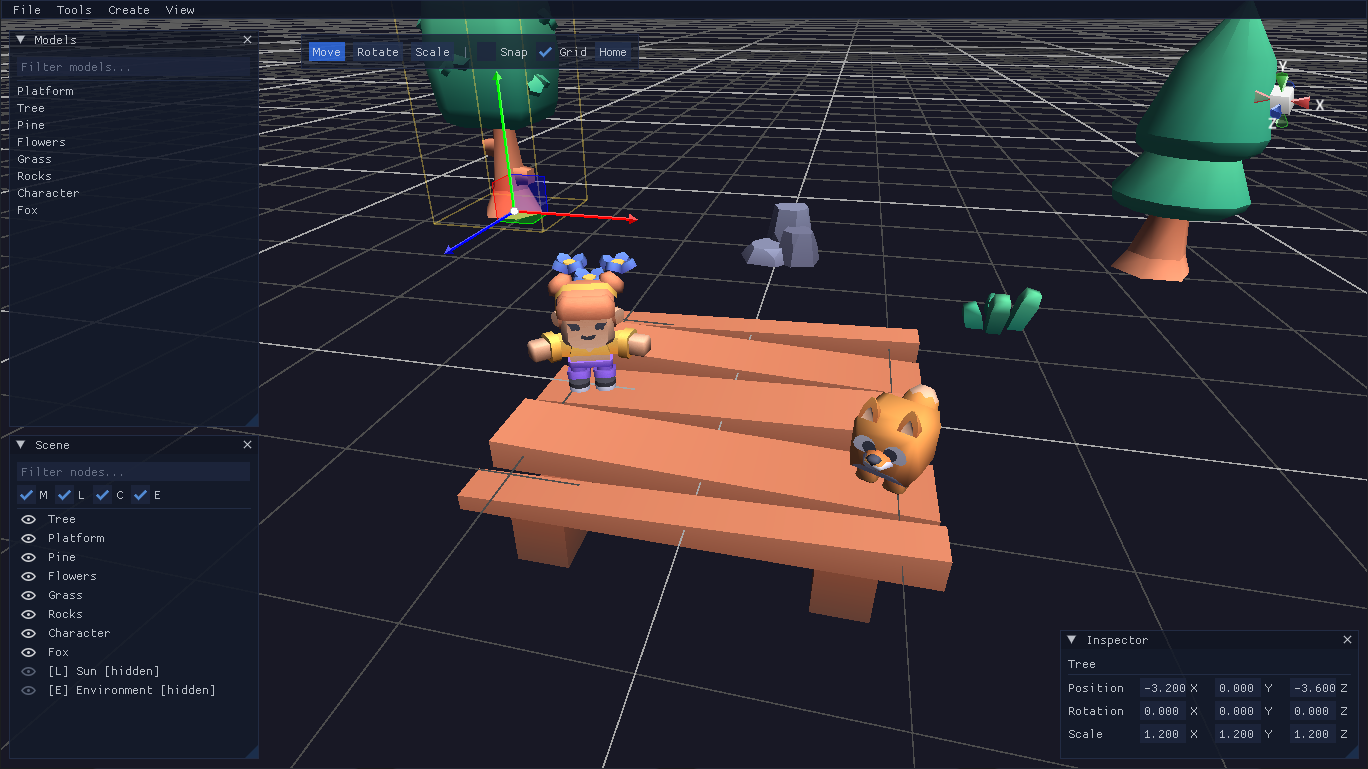
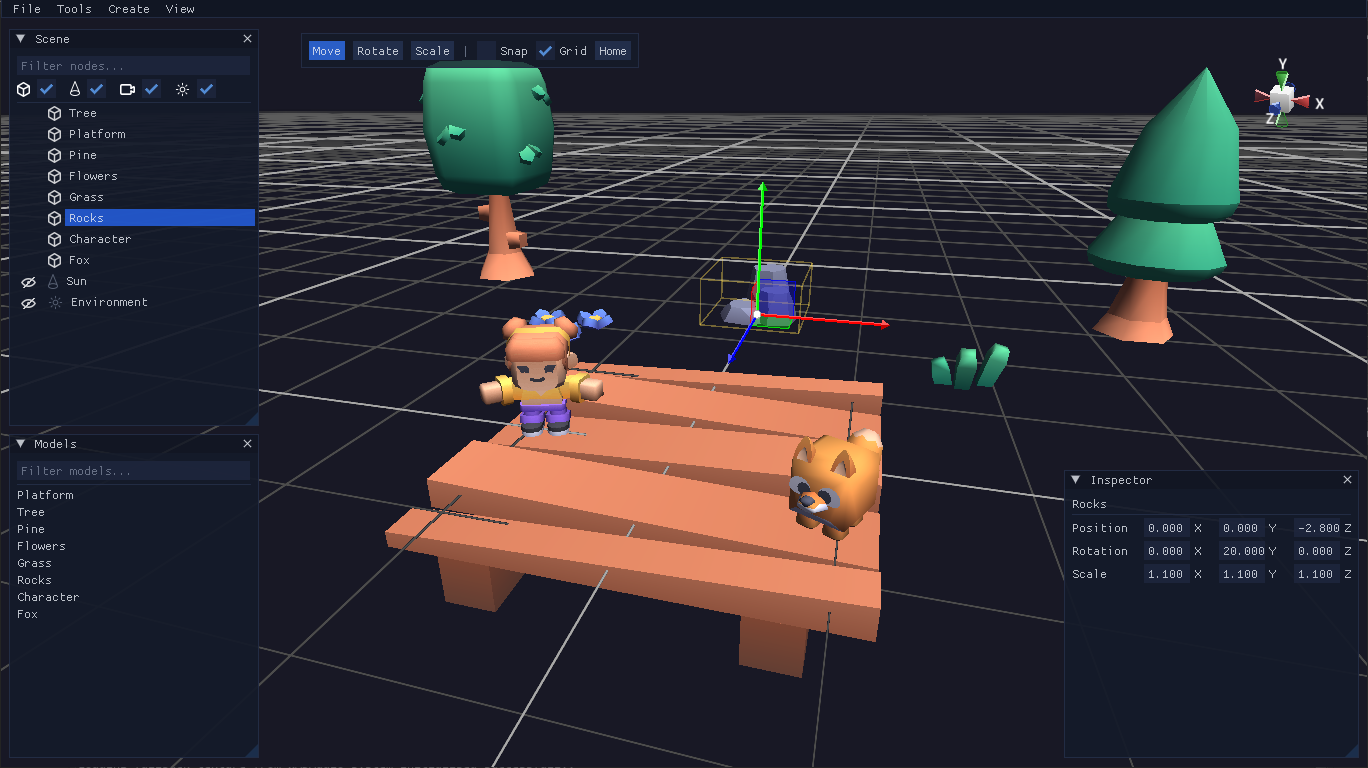
Update README to clarify editor usage and replace screenshot

diff --git a/README.md b/README.md
@@ -2,7 +2,7 @@
 
 <img src="docs/icon.png" width="300px" />
 
-Embeddable 3D level editor for GameMaker (GML) on the GM3D runtime, using the built-in ImGUI interface. The game owns its runtime (scene, camera, models); the editor only drives it through a small adapter. Drop it into a project, wire one gateway object, edit levels in-game, save them as JSON.
+Embeddable 3D level editor for GameMaker on the GM3D runtime, using the built-in ImGUI interface. The game owns its runtime (scene, camera, models); the editor only drives it through a small adapter. Drop it into a project, edit levels in-game, save them as a JSON file and you will be able it to load it later.
 
 ## Requirements
 
